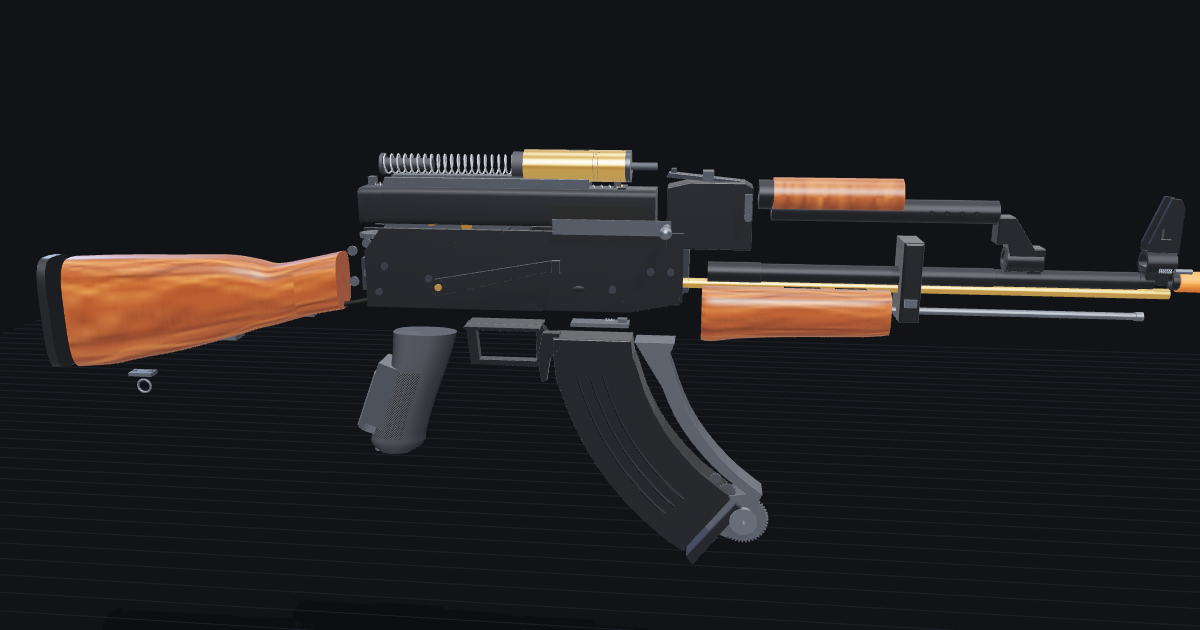
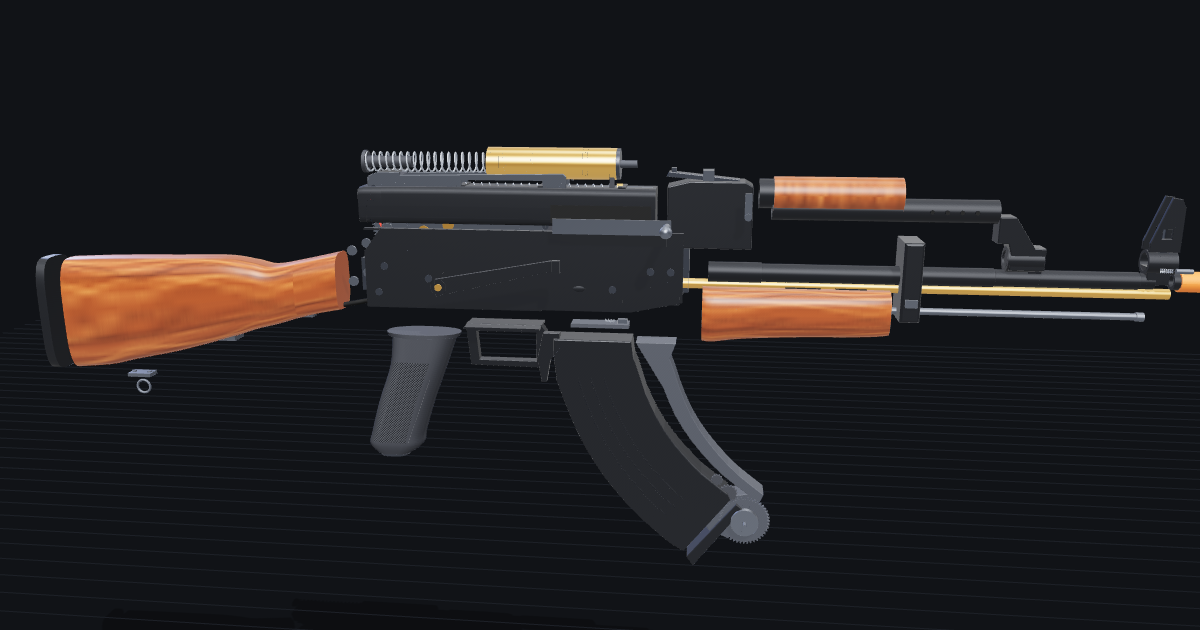
CM048M: V3 gearbox from measured shell, AKM grip, handguard and mag widths from STL references
Gearbox frame rebuilt on a measured SHS V3 shell (bushing, cylinder and trigger pivot
positions), placed so the trigger pivot sits over the photographed trigger. Grip gets the
AKM 20 degree lean, top flange, checker field and bottom plate from STL measurements.
Kythera, nozzle and air line realigned to the new cylinder head.

diff --git a/cm048m/index.html b/cm048m/index.html
@@ -501,9 +501,9 @@ part('upperHG', 'Upper handguard + back cap', 'frt', ['55M', '57'], [110, 230, 0
   [[tube(GT_R + 0.5, GT_R + 5.4, X(429), X(305), 40, GT_Y), 'wood'],
    [tube(GT_R + 0.3, GT_R + 3.2, X(443), X(429), 32, GT_Y), 'blk']], { shell: true });
 part('lowerHG', 'Lower handguard + retaining slices', 'frt', ['53M', '54'], [90, -165, 0],
-  'Real wood AKM lower handguard (53M) with the palm swells. The front sits in the retainer ferrule, the rear under the rear sight block. Real AKM part is about 170 x 45 x 47mm. Slice 54 is the spring plate that takes up play.',
-  [[sweepX([{ x: X(307), yt: Y(83), yb: Y(129), w: mm(40) }, { x: X(330), yt: Y(83), yb: Y(131), w: mm(44) }, { x: X(400), yt: Y(83), yb: Y(133), w: mm(46) },
-            { x: X(452), yt: Y(83), yb: Y(136), w: mm(47) }, { x: X(482), yt: Y(83), yb: Y(140), w: mm(45) }, { x: X(492), yt: Y(83), yb: Y(139), w: mm(41) }], { n: 3.2 }), 'wood'],
+  'Real wood AKM lower handguard (53M) with the palm swells. The front sits in the retainer ferrule, the rear under the rear sight block. Measured AKM lower handguard models: about 167mm long, 35mm wide at the front growing to 43mm at the palm swells, 37 to 52mm tall. Slice 54 is the spring plate that takes up play.',
+  [[sweepX([{ x: X(307), yt: Y(83), yb: Y(129), w: mm(35) }, { x: X(330), yt: Y(83), yb: Y(131), w: mm(38) }, { x: X(400), yt: Y(83), yb: Y(133), w: mm(41) },
+            { x: X(452), yt: Y(83), yb: Y(136), w: mm(43) }, { x: X(482), yt: Y(83), yb: Y(140), w: mm(42) }, { x: X(492), yt: Y(83), yb: Y(139), w: mm(39) }], { n: 3.2 }), 'wood'],
    ...[[330, 360], [375, 410]].map(([a, b]) => [bx(X(b), X(a), Y(84.5), Y(82.5), -mm(6), mm(6)), 'black'])], { shell: true });
 part('hgRetainer', 'Lower handguard front cap + button', 'frt', ['24', '25'], [140, -60, 0],
   'Handguard retainer ferrule (24) that clamps the front of the lower handguard to the barrel, with its lock button (25).',
@@ -588,71 +588,88 @@ part('innerBarrel', 'Inner barrel', 'hop', ['40'], [60, -60, 0],
   [[tube(mm(3.02), mm(4.25), X(594), X(37), 24), 'brass'], [bx(X(583), X(573), mm(4.4), mm(4.9), -mm(1.5), mm(1.5)), 'black']], { variant: 'aeg' });
 
 // ================= GEARBOX AND MOTOR (stock AEG) =================
-const GB_PTS = P([[588, 85], [795, 85], [797, 95], [797, 135], [788, 160], [735, 160], [722, 148], [682, 146], [665, 128], [600, 126], [588, 120]]);
+// Gearbox frame (mm): origin = sector gear axle, +x toward the muzzle, +y up. Positions measured from a flat SHS V3 shell
+// photo scaled to the 167mm shell length (UNVERIFIED, about +-1.5mm). The cylinder axis sits 24.8mm above the sector axle and is
+// put on the bore; the shell front (x = 99.6) lands at photo px 610, which puts the trigger pivot holes over the photographed trigger.
+const GX = xm => X(610) + mm(xm - 99.6), GY = ym => mm(ym - 24.8);
+const G = pts => pts.map(([a, b]) => [GX(a), GY(b)]);
 const GBZ = mm(12.5);
+const GB_OUT = G([[-67, 36], [-64, 41], [-58, 43], [-40, 43], [-40, 40.5], [97, 43], [99, 41], [99, 10], [82, 10], [82, -5], [40, -7], [7, -8], [6, -15], [-1, -25],
+  [-5, -40], [-10, -45], [-31, -36], [-37, -31], [-42, -24], [-48, -12], [-48, 10], [-62, 10], [-66, 14]]);
+const GB_WIN = G([[12, 21], [80, 21], [80, 37.5], [12, 37.5]]).reverse();
+const BUSH = [[0, 0], [-21, -5.7], [-16.6, -25.8]];
 part('gearbox', 'Gear box (Version 3 shell + combine plate)', 'gbx', ['7'], [0, 360, 0],
-  'CYMA Version 3 gearbox (7): two metal shell halves joined by a top combine plate and 4 screws, 7mm steel bushings. The manual lists the gearbox as one item and gives no internal part numbers, so the internals below use generic V3 names. V3 shells from other makers measure about 167 x 25 x 87mm.',
-  [[at(prof(GB_PTS, mm(1.6), 0.4), 0, 0, GBZ - mm(0.8)), 'zinc'], [at(prof(GB_PTS, mm(1.6), 0.4), 0, 0, -GBZ + mm(0.8)), 'zinc'],
-   [bx(X(790), X(600), Y(86), Y(83), -mm(7), mm(7)), 'zinc'],
-   ...[[748, 128], [712, 133], [772, 146]].flatMap(([a, b]) => [1, -1].map(s => [cyl(mm(4.5), mm(1.6), 'z', X(a), Y(b), s * (GBZ + mm(0.4)), 16), 'brass']))], { shell: true });
+  'CYMA Version 3 gearbox (7): two metal shell halves (7mm bushings) held by screws and the slide-on top combine plate; the spring guide seats at the rear, the cylinder window is on top. Outline and bushing positions are traced from a flat SHS V3 shell photo scaled to 167mm long (Retro Arms lists 167 x 86 x 25mm): sector gear 21.8mm from the spur, spur 20.5mm from the bevel, cylinder axis 24.8mm above the sector axle. The manual gives no internal part numbers, so the internals use generic V3 names.',
+  [[at(prof(GB_OUT, mm(2.2), 0.4, [GB_WIN]), 0, 0, GBZ - mm(1.1)), 'zinc'], [at(prof(GB_OUT, mm(2.2), 0.4, [GB_WIN]), 0, 0, -GBZ + mm(1.1)), 'zinc'],
+   [bx(GX(-40), GX(-58), GY(40.5), GY(43.5), -GBZ, GBZ), 'zinc'],
+   [cyl(mm(2.2), mm(2), 'z', GX(101.3), GY(40.1), 0, 10), 'zinc'],
+   ...BUSH.flatMap(([a, b]) => [1, -1].map(s => [cyl(mm(4.8), mm(1.4), 'z', GX(a), GY(b), s * (GBZ + mm(0.3)), 20), 'brass'])),
+   ...[[-9.9, -41.5], [-1.7, -33.4], [1.5, 17.4], [-42.4, -5.7], [82, 0], [-62, 30]].flatMap(([a, b]) => [1, -1].map(s => [cyl(mm(2.6), mm(1), 'z', GX(a), GY(b), s * (GBZ + mm(0.2)), 12), 'dark']))], { shell: true });
 part('cylinder', 'Cylinder + cylinder head, nozzle', 'gbx', [], [250, 510, 0],
-  'Ported metal cylinder (standard bore 23.6mm) with the cylinder head and AK-length nozzle (aftermarket AK nozzles are 19.7 or 20.7mm). Some sources list a Type 0 copper cylinder; batches vary.',
-  [[tube(mm(11.8), mm(13), X(705), X(600), 32), 'brass'], [tube(0, mm(13.2), X(603), X(598), 32), 'dark'],
-   [tube(mm(2.2), mm(3.2), X(598), X(572), 16), 'poly2'], [bx(X(660), X(640), mm(11.8), mm(13.3), -mm(2.5), mm(2.5)), 'black']], { tag: 'V3', variant: 'aeg' });
+  'Ported metal cylinder (standard bore 23.6 to 23.8mm; AK AEGs use a full, type 0 cylinder) with the cylinder head and AK-length nozzle (aftermarket AK nozzles are 19.6 to 20.7mm).',
+  [[tube(mm(11.9), mm(13), GX(-10), GX(97), 32), 'brass'], [tube(mm(3), mm(12.8), GX(97), GX(100), 32), 'dark'],
+   [tube(mm(2.2), mm(3.2), GX(98), GX(113.5), 16), 'poly2'], [bx(GX(60), GX(75), GY(11.9), GY(13.2), -mm(2.5), mm(2.5)), 'black']], { tag: 'V3', variant: 'aeg' });
 part('piston', 'Piston + piston head', 'gbx', [], [120, 510, 0],
-  'Polymer piston with metal rack teeth and an aluminium bearing head (per Taiwangun; Airsoft GI lists all plastic).',
-  [[tube(mm(9), mm(11.2), X(690), X(608), 24), 'poly'], [cyl(mm(11.6), mm(4), 'x', X(606), 0, 0, 32), 'alu'],
-   [torus(mm(11), mm(0.9), 'x', X(605), 0, 0), 'black'],
-   ...Array.from({ length: 10 }, (_, i) => [bx(X(615 + i * 7.5) - 1.8, X(615 + i * 7.5) + 1.8, -mm(14), -mm(11), -mm(3), mm(3)), 'steel'])], { tag: 'V3', variant: 'aeg' });
+  'Polymer piston with metal rack teeth and an aluminium bearing head (per Taiwangun; Airsoft GI lists all plastic). Standard AEG pistons are about 71mm; shown forward, as after a shot.',
+  [[tube(mm(9), mm(11.3), GX(23), GX(92), 24), 'poly'], [cyl(mm(11.7), mm(4), 'x', GX(94), 0, 0, 32), 'alu'],
+   [torus(mm(11.2), mm(0.9), 'x', GX(95.2), 0, 0), 'black'],
+   ...Array.from({ length: 14 }, (_, i) => [bx(GX(28 + i * 4.2) - mm(1), GX(28 + i * 4.2) + mm(1), GY(11.2), GY(13.8), -mm(2.5), mm(2.5)), 'steel'])], { tag: 'V3', variant: 'aeg' });
 part('mainSpring', 'Spring + spring guide', 'gbx', [], [-40, 510, 0],
-  'M120 spring (Airsoft GI) on a plastic or bearing spring guide.',
-  [[spring(mm(8), mm(0.8), X(610) - X(790), 26, 'x', X(790), 0, 0), 'spring'],
-   [cyl(mm(5), X(740) - X(795), 'x', (X(740) + X(795)) / 2, 0, 0, 16), 'poly'], [cyl(mm(9), mm(3), 'x', X(792), 0, 0, 24), 'poly']], { tag: 'V3', variant: 'aeg' });
-part('gears', 'Gear set (spur, sector, bevel)', 'gbx', [], [-200, 360, 0],
-  'Steel gear set, about 18:1 (Airsoft GI). The sector gear drives the piston rack, the bevel gear takes power from the motor pinion. Tooth counts are not published.',
-  [[gear(mm(14), 30, mm(4), X(748), Y(128), 0, { hole: mm(2) }), 'steel'],
-   [gear(mm(16), 30, mm(4), X(712), Y(135), 0, { hole: mm(2) }), 'steel'],
-   [gear(mm(13), 28, mm(4), X(772), Y(146), 0, { hole: mm(2), axis: 'y' }), 'steel'],
-   ...[[748, 128], [712, 135]].map(([a, b]) => [cyl(mm(2), 2 * GBZ, 'z', X(a), Y(b), 0, 10), 'steel'])], { tag: 'V3', variant: 'aeg' });
+  'M110 to M120 spring (listings differ) on the spring guide that seats in the rear of the shell.',
+  [[spring(mm(8), mm(0.8), mm(152), 26, 'x', GX(-64), 0, 0), 'spring'],
+   [cyl(mm(4.8), mm(42), 'x', GX(-46), 0, 0, 16), 'poly'], [cyl(mm(9.5), mm(3), 'x', GX(-65), 0, 0, 24), 'poly']], { tag: 'V3', variant: 'aeg' });
+part('gears', 'Gear set (sector, spur, bevel)', 'gbx', [], [-200, 360, 0],
+  'Steel 18:1 gear set: motor pinion to bevel, bevel pinion to spur, spur pinion to sector, sector (16 teeth, about 31 to 32mm tip) to the piston rack. Axles 3mm.',
+  [[gear(mm(16), 32, mm(3.5), GX(0), GY(0), mm(4), { hole: mm(1.5) }), 'steel'],
+   [gear(mm(15), 30, mm(3.5), GX(-21), GY(-5.7), -mm(4), { hole: mm(1.5) }), 'steel'], [gear(mm(5.5), 11, mm(4), GX(-21), GY(-5.7), mm(4)), 'steel'],
+   [gear(mm(14.5), 30, mm(3), GX(-16.6), GY(-25.8), mm(5.5), { hole: mm(1.5) }), 'steel'], [gear(mm(5), 10, mm(4), GX(-16.6), GY(-25.8), -mm(4)), 'steel'],
+   ...BUSH.map(([a, b]) => [cyl(mm(1.5), 2 * GBZ, 'z', GX(a), GY(b), 0, 10), 'steel'])], { tag: 'V3', variant: 'aeg' });
 part('tappet', 'Tappet plate + cut-off lever, anti-reversal latch', 'gbx', [], [200, 440, 0],
-  'Tappet plate pulls the nozzle back to feed a BB; the cut-off lever stops the sector gear in semi; the metal anti-reversal latch stops the gears spinning backwards.',
-  [[bx(X(682), X(600), Y(124), Y(120), -mm(3), mm(3)), 'poly'], [bx(X(605), X(598), Y(124), Y(96), -mm(3), mm(3)), 'poly'],
-   [bx(X(705), X(688), Y(152), Y(140), -mm(2), mm(2)), 'steel'], [bx(X(768), X(758), Y(152), Y(136), -mm(2), mm(2)), 'steel']], { tag: 'V3', variant: 'aeg' });
+  'V3 tappet plate (about 110 x 25mm) pulls the nozzle back to feed a BB; the cut-off lever stops the sector gear in semi; the metal anti-reversal latch stops the gears spinning backwards.',
+  [[bx(GX(-8), GX(100), GY(7.5), GY(10), mm(5.5), mm(8)), 'poly'], [bx(GX(100), GX(104), GY(7.5), GY(30), mm(3), mm(8)), 'poly'],
+   [bx(GX(8), GX(22), GY(-6), GY(3), mm(6), mm(7.5)), 'steel'], [bx(GX(-38), GX(-26), GY(-34), GY(-26), -mm(9), -mm(7.5)), 'steel']], { tag: 'V3', variant: 'aeg' });
+const TRIG = P([[693, 143], [703, 146], [713, 162], [710, 177], [705, 177], [706, 163], [697, 150]]);
 part('trigger', 'Trigger + trigger contacts', 'gbx', [], [150, 360, 0],
-  'Gearbox trigger and its copper contact assembly (2 screws plus a separation spring). No MOSFET on the stock gun.',
-  [[prof(P([[693, 143], [703, 146], [713, 162], [710, 177], [705, 177], [706, 163], [697, 150]]), mm(5), 0.8), 'steel'],
-   [bx(X(700), X(680), Y(146), Y(128), -mm(5), mm(5)), 'poly'], [bx(X(696), X(684), Y(128), Y(122), -mm(3), mm(3)), 'brass']], { tag: 'V3', variant: 'aeg' });
+  'Gearbox trigger (pivot pin near the front bottom of the shell) and its copper contact assembly (2 screws plus a separation spring). No MOSFET on the stock gun.',
+  [[prof([...TRIG, [GX(28), GY(-5)], [GX(33), GY(-2)]], mm(5), 0.8), 'steel'], [cyl(mm(1.5), mm(8), 'z', GX(30), GY(-3), 0, 10), 'steel'],
+   [bx(GX(40), GX(62), GY(-6), GY(4), -mm(5), mm(5)), 'poly'], [bx(GX(44), GX(58), GY(4), GY(6), -mm(3), mm(3)), 'brass']], { tag: 'V3', variant: 'aeg' });
 part('selPlate', 'Selector plate', 'gbx', [], [-150, 440, 0],
-  'Gearbox selector plate, driven by the external lever through the receiver. Debris under the dust cover can jam its teeth. Kept in the Kythera build.',
-  [[at(prof(P([[615, 124], [742, 124], [745, 140], [615, 134]]), mm(1), 0.2), 0, 0, GBZ + mm(1)), 'steel']], { tag: 'V3' });
-const MOTOR_DIR = new THREE.Vector3(-0.35, -0.94, 0).normalize();   // along the grip axis, downwards
-const motorAt = (d) => new THREE.Vector3(X(772), Y(165), 0).addScaledVector(MOTOR_DIR, d);
+  'V3 selector plate (about 87 x 13mm) on the right of the shell, with the rack teeth that the external lever turns. Debris under the dust cover can jam it. Kept in the Kythera build.',
+  [[at(prof(G([[-6, -6], [80, -6], [80, 7], [-6, 7]]), mm(1.2), 0.2), 0, 0, GBZ + mm(1)), 'steel'],
+   ...Array.from({ length: 5 }, (_, i) => [bx(GX(-5 + i * 2.6), GX(-3.8 + i * 2.6), GY(7), GY(9), GBZ + mm(0.5), GBZ + mm(1.7)), 'steel'])], { tag: 'V3' });
+// motor axis: down the grip from under the bevel gear
+const MOTOR_DIR = new THREE.Vector3(-0.35, -0.94, 0).normalize();
+const motorAt = (d) => new THREE.Vector3(GX(-16.6), GY(-33), 0).addScaledVector(MOTOR_DIR, d);
 function alongGrip(g, d0) { g.rotateZ(Math.atan2(MOTOR_DIR.y, MOTOR_DIR.x) + Math.PI / 2); const c = motorAt(d0); g.translate(c.x, c.y, c.z); return g; }
 part('motor', 'Motor (short type, high torque)', 'gbx', [], [-160, -260, 0],
-  'Short-type high-torque motor with neodymium magnets, hanging under the gearbox inside the pistol grip. Mesh is set with an M3 hex screw through the grip bottom (manual p13): only adjust if the motor gets loud.',
-  [[alongGrip(new THREE.CylinderGeometry(mm(12.4), mm(12.4), mm(52), 28), 40), 'steel'],
-   [alongGrip(new THREE.CylinderGeometry(mm(1.2), mm(1.2), mm(14), 8), 8), 'steel'],
-   [alongGrip(new THREE.CylinderGeometry(mm(3), mm(3), mm(6), 12), 2), 'brass']], { variant: 'aeg' });
+  'Short-type high-torque motor with neodymium magnets, hanging under the gearbox inside the pistol grip, pinion up into the bevel gear. Mesh is set with an M3 hex screw through the grip bottom (manual p13): only adjust if the motor gets loud.',
+  [[alongGrip(new THREE.CylinderGeometry(mm(12.2), mm(12.2), mm(50), 28), 42), 'steel'],
+   [alongGrip(new THREE.CylinderGeometry(mm(1.2), mm(1.2), mm(14), 8), 10), 'steel'],
+   [alongGrip(new THREE.CylinderGeometry(mm(3), mm(3), mm(6), 12), 3), 'brass'],
+   [alongGrip(new THREE.CylinderGeometry(mm(9), mm(12.2), mm(4), 28), 69), 'poly']], { variant: 'aeg' });
 part('motorCage', 'Motor cage (CY-0029)', 'gbx', [], [-100, -200, 0],
-  'Two-piece metal motor cage bolted under the gearbox (CYMA CY-0029, about 85g), with the motor height screw at the bottom.',
-  [[alongGrip(new THREE.BoxGeometry(mm(29), mm(58), mm(29)), 42), 'zinc'],
+  'Two-piece metal motor cage bolted to the two screw eyes under the gearbox (CYMA CY-0029, about 85g), with the motor height screw at the bottom.',
+  [[alongGrip(new THREE.BoxGeometry(mm(28), mm(64), mm(27)), 42), 'zinc'],
    [alongGrip(new THREE.CylinderGeometry(mm(2), mm(2), mm(8), 10), 78), 'steel']], { shell: true, variant: 'aeg' });
 part('wiring', 'Protect a box of line (wire cover) + gearbox wiring', 'gbx', ['8'], [0, 360, 0],
   'Wire guard (8) on the gearbox rear with the motor and trigger leads running back to the stock.',
-  [[bx(X(800), X(795), Y(130), Y(90), -mm(6), mm(6)), 'poly'],
-   [tubeAlong([[X(797), Y(128), mm(3)], [X(790), Y(155), mm(3)], [X(785), Y(170), mm(3)]], mm(1.1)), 'red'],
-   [tubeAlong([[X(797), Y(128), -mm(3)], [X(790), Y(155), -mm(3)], [X(785), Y(170), -mm(3)]], mm(1.1)), 'black']], { variant: 'aeg' });
+  [[bx(GX(-70), GX(-66), GY(14), GY(38), -mm(6), mm(6)), 'poly'],
+   [tubeAlong([[GX(-68), GY(20), mm(3)], [GX(-60), GY(-5), mm(3)], [GX(-40), GY(-30), mm(3)]], mm(1.1)), 'red'],
+   [tubeAlong([[GX(-68), GY(20), -mm(3)], [GX(-60), GY(-5), -mm(3)], [GX(-40), GY(-30), -mm(3)]], mm(1.1)), 'black']], { variant: 'aeg' });
 
 // ================= GRIP, STOCK AND POWER =================
-const GL = [{ y: Y(144), xf: X(722), xb: X(790), w: mm(30) }, { y: Y(180), xf: X(734), xb: X(794), w: mm(31) },
-            { y: Y(220), xf: X(749), xb: X(808), w: mm(31) }, { y: Y(255), xf: X(760), xb: X(818), w: mm(30) },
-            { y: Y(269), xf: X(763), xb: X(821), w: mm(29) }, { y: Y(279), xf: X(776), xb: X(812), w: mm(24) }];
+const GL = [{ y: Y(147), xf: X(722), xb: X(790), w: mm(30.5) }, { y: Y(180), xf: X(734), xb: X(794), w: mm(31) },
+            { y: Y(220), xf: X(749), xb: X(808), w: mm(31) }, { y: Y(255), xf: X(760), xb: X(818), w: mm(30.5) },
+            { y: Y(269), xf: X(763), xb: X(821), w: mm(29.5) }, { y: Y(279), xf: X(776), xb: X(812), w: mm(25) }];
+const GRIP_OPT = { n: 3.4, frontTaper: 0.88, step: 2 };
 part('grip', 'Gun grip + grip screw', 'stk', ['13', '14'], [-40, -150, 0],
-  'Polymer AK pistol grip (13) with checkered sides; it covers the motor. Screw 14 (M4x5) holds it; the bottom screw also sets motor height. On the real AKM it was laminate or bakelite.',
-  [[loft(GL, { n: 2.6, frontTaper: 0.75, step: 2 }), 'poly'],
-   [loftPatch(GL, { t0: 1.35, t1: 2.45, y0: Y(185), y1: Y(262), n: 2.6, frontTaper: 0.75, lift: 0.4, uvScale: 0.6 }), 'checker'],
-   [loftPatch(GL, { t0: -2.45, t1: -1.35, y0: Y(185), y1: Y(262), n: 2.6, frontTaper: 0.75, lift: 0.4, uvScale: 0.6 }), 'checker'],
-   [alongGrip(new THREE.CylinderGeometry(mm(3), mm(3), mm(4), 16), 121), 'steel']], { shell: true });
+  'Polymer AKM-pattern motor grip (13). Hollow shell around the motor, about 30mm wide (the real AKM grip is 24 x 40mm in section, 20 degrees from vertical, 106mm long; airsoft motor grips run 30 to 31mm wide to clear the motor). Top flange with rounded ends sits under the receiver; checkered field on the rear half of each side with a smooth front band. Screw 14 holds it; the M3 hex screw in the bottom plate sets motor height.',
+  [[loft(GL, GRIP_OPT), 'poly'],
+   [loftPatch(GL, { t0: 1.3, t1: 2.5, y0: Y(172), y1: Y(265), ...GRIP_OPT, lift: 0.35, uvScale: 0.6 }), 'checker'],
+   [loftPatch(GL, { t0: -2.5, t1: -1.3, y0: Y(172), y1: Y(265), ...GRIP_OPT, lift: 0.35, uvScale: 0.6 }), 'checker'],
+   [loft([{ y: Y(143), xf: X(717), xb: X(797), w: mm(32) }, { y: Y(147.5), xf: X(719), xb: X(795), w: mm(32) }], { n: 2.3, frontTaper: 1, step: 2 }), 'poly'],
+   [loft([{ y: Y(279), xf: X(778), xb: X(811), w: mm(23.5) }, { y: Y(282), xf: X(779), xb: X(810), w: mm(22.5) }], { n: 2.6, frontTaper: 1, step: 1 }), 'dark'],
+   [cyl(mm(3), mm(1.2), 'y', X(794), Y(282.4), 0, 6), 'black']], { shell: true });
 const STOCK_ST = [[818, 91, 152, 34], [853, 99, 159, 35], [890, 106, 170, 36], [913, 102, 176, 37], [943, 98, 186, 38], [1003, 99, 203, 39], [1053, 100, 214, 40], [1083, 101, 221, 40], [1122, 103, 225, 40]]
   .map(([px, t, b, w]) => ({ x: X(px), yt: Y(t), yb: Y(b), w: mm(w) }));
 part('stock', 'Gunstock (fixed AKM stock)', 'stk', ['66M'], [-160, 0, 0],
@@ -681,11 +698,11 @@ part('powerCable', 'Power cable + fuse (20A)', 'stk', ['70'], [-120, -110, 0],
 const MAG_FRONT = [[556, 143], [553, 150], [543, 181], [533, 203], [523, 220], [513, 234], [503, 246], [493, 257], [483, 267], [473, 275], [463, 283], [455, 289]];
 const MAG_BACK = [[636, 143], [633, 170], [623, 198], [613, 223], [603, 243], [593, 260], [583, 275], [573, 288], [563, 300], [553, 311], [543, 321], [533, 330], [523, 339], [513, 347], [505, 352]];
 const MAG_POLY = [[558, 126], ...MAG_FRONT, [452, 295], [499, 355], ...[...MAG_BACK].reverse(), [636, 126]];
-const MZ = mm(13.5);
+const MZ = mm(12.4);
 const magF = resample(MAG_FRONT, 22), magB = resample(MAG_BACK, 22);
-const ribs = [0.42, 0.58, 0.74].flatMap(f => [1, -1].map(s => [tubeAlong(magF.slice(2, 19).map((p, k) => { const q = magB[k + 2]; return [X(p[0] + (q[0] - p[0]) * f), Y(p[1] + (q[1] - p[1]) * f), s * (MZ + mm(0.4))]; }), mm(1.5), 6), 'blk']));
+const ribs = [0.42, 0.58, 0.74].flatMap(f => [1, -1].map(s => [tubeAlong(magF.slice(2, 19).map((p, k) => { const q = magB[k + 2]; return [X(p[0] + (q[0] - p[0]) * f), Y(p[1] + (q[1] - p[1]) * f), s * MZ]; }), mm(1), 6), 'blk']));
 part('magShell', 'Magazine cover (AKM ribbed shell) + button', 'mag', ['73M', '93'], [60, -240, 0],
-  'Steel AKM-pattern hi-cap shell (73M) with the stamped ribs. 600 rounds per the manual (retailers list 400 to 600). The front lug hooks the trunnion; the rear engages the catch. Button 93 sits at the top. Real AKM mag: about 225 x 65 x 25mm.',
+  'Steel AKM-pattern hi-cap shell (73M) with the stamped ribs. 600 rounds per the manual (retailers list 400 to 600). The front lug hooks the trunnion; the rear engages the catch. Button 93 sits at the top. Measured AKM mag models: about 26.7mm thick over the ribs, 30 to 32mm at the top, about 64mm deep.',
   [[prof(P(MAG_POLY), 2 * MZ, 1.2), 'blk'], ...ribs], { shell: true });
 part('magFloor', 'Magazine rear cover (floor plate)', 'mag', ['74'], [110, -300, 0],
   'Floor plate (74) at the bottom of the shell.',
@@ -705,14 +722,14 @@ part('feedLips', 'Magazine cover (feed plate) + bullet block, spring, screw', 'm
    [spring(mm(1.2), mm(0.25), mm(8), 6, 'x', X(585), Y(122), 0), 'spring']]);
 
 // ================= OWNER BUILD: POLARSTAR KYTHERA HPA =================
-const KY_X0 = X(588), KY_X1 = KY_X0 - mm(115);
+const KY_X0 = GX(100), KY_X1 = KY_X0 - mm(115);
 part('kythera', 'Kythera V3 engine (front/rear cylinder, sleeve)', 'hpa', [], [250, 510, 0],
   'Polarstar Kythera for V3 (SKU 10001002): fully mechanical HPA engine, semi-auto only, no FCU or battery. About 115 x 21 x 21mm, 147g. Front cylinder 10000763, rear cylinder 10000764, sleeve 10000765. It sits where the AEG cylinder was, inside the retained V3 shell.',
   [[latheX([[0, KY_X1], [mm(10.5), KY_X1], [mm(10.5), KY_X0 - mm(55)], [mm(11.5), KY_X0 - mm(55)], [mm(11.5), KY_X0 - mm(8)], [mm(9), KY_X0], [0, KY_X0]], 32), 'alu'],
    [tube(mm(10.6), mm(11), KY_X0 - mm(60), KY_X0 - mm(52), 32), 'red']], { variant: 'hpa' });
 part('kyNozzle', 'Kythera nozzle #2 + spool, spool spring', 'hpa', [], [380, 510, 0],
   'Nozzle #2 for AK (tip 0.882in / 22.4mm), driven by the air spool (front 10000767, tail 10000992) and spool spring 10000389; fit the heavy spring above about 130 PSI.',
-  [[tube(mm(2.2), mm(3.2), KY_X0 + mm(22.4), KY_X0 - mm(10), 16), 'poly2'], [spring(mm(4), mm(0.5), mm(22), 8, 'x', KY_X0 - mm(70), 0, 0), 'spring']], { variant: 'hpa' });
+  [[tube(mm(2.2), mm(3.2), KY_X0 + mm(13.5), KY_X0 - mm(10), 16), 'poly2'], [spring(mm(4), mm(0.5), mm(22), 8, 'x', KY_X0 - mm(70), 0, 0), 'spring']], { variant: 'hpa' });
 part('kyMeter', 'Input fitting + metering screw', 'hpa', [], [100, 510, 0],
   'Input fitting (10000834) at the engine rear and the metering screw (10001020, 0.029in orifice by default). The metering screw sets nozzle return speed; a loose one is a common cause of misfeeds.',
   [[cyl(mm(4), mm(10), 'y', KY_X1 + mm(8), -mm(13), 0, 14), 'brass'], [cyl(mm(2), mm(4), 'y', KY_X1 + mm(22), mm(11.5), 0, 10), 'steel']], { variant: 'hpa' });
@@ -722,7 +739,7 @@ part('kySear', 'Sear assembly + trigger link, reset cable', 'hpa', [], [150, 360
    [tubeAlong([[X(690), Y(125), mm(6)], [X(740), Y(150), mm(6)], [X(775), Y(200), mm(6)], [X(795), Y(270), mm(6)]], mm(0.7), 5), 'spring']], { variant: 'hpa' });
 part('airLine', 'Air line (through the grip)', 'hpa', [], [-60, -160, 0],
   'Braided air line from the input fitting down through the pistol grip and out the bottom to the tank regulator. Pressure is set at the tank (60 to 180 PSI); nothing regulates inside the gun.',
-  [[tubeAlong([[KY_X1 + mm(8), -mm(18), 0], [X(760), Y(150), 0], [X(785), Y(210), 0], [X(800), Y(275), 0], [X(805), Y(310), 0], [X(830), Y(345), 0], [X(900), Y(360), 0]], mm(3), 10), 'black']], { variant: 'hpa' });
+  [[tubeAlong([[KY_X1 + mm(8), -mm(18), 0], ...[4, 45, 97].map(d => motorAt(d).toArray()), [X(820), Y(330), 0], [X(850), Y(352), 0], [X(900), Y(360), 0]], mm(3), 10), 'black']], { variant: 'hpa' });
 part('zciBarrel', 'ZCI 455mm 6.02 barrel + R-hop patch, G&G green bucking', 'hpa', [], [60, -60, 0],
   'Owner build: ZCI 455mm 6.02 stainless inner barrel with a square window cut for an R-hop patch (about 2.15mm deep x 6mm long), under a G&G green bucking with its nub removed.',
   [[tube(mm(3.01), mm(4.25), X(594), X(37), 24), 'steel'], [bx(X(583), X(573), mm(4.25), mm(5.6), -mm(1.6), mm(1.6)), 'rubber'],
